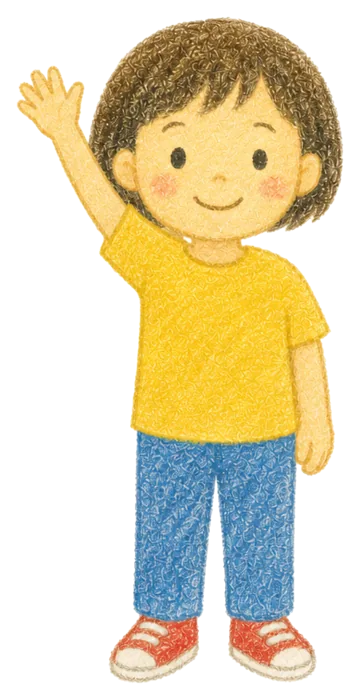
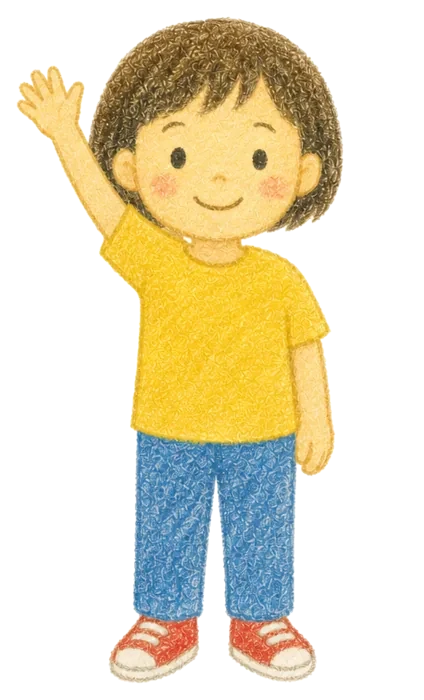
S-04 대기 그림 몸통을 가운데로 · S-09 숨는 물건을 대본 글로 고름
- hero-wave.webp: 든 팔까지 넣은 네모가 아니라 다리 가운데가 정가운데
- 숨을 것: 상자 · 덤불 · 바위 · 통나무 · 배 중 글에 나온 것, 없으면 물건 없이 사라짐 (pt_docs S-09-05)

diff --git a/src/features/scene/plan.ts b/src/features/scene/plan.ts
@@ -6,9 +6,28 @@ import { ACTION_PROP } from "@/features/story/choices";
 import { LOCATIONS, locationFor } from "./locations";
 
 export type PersonId = "friend" | "friend2" | "adult" | "grandma" | "grandpa" | "mom" | "dad" | "teacher" | "baby" | "dog" | "cat";
-export type PropId = PersonId | "box" | "bush" | "sign";
+export type PropId = PersonId | "cover" | "sign";
 /** 사람 · 동물 (옆에 서는 것). 숨을 것 · 표지판은 아니다 */
-export const isPerson = (id: PropId) => id !== "box" && id !== "bush" && id !== "sign";
+export const isPerson = (id: PropId) => id !== "cover" && id !== "sign";
+
+/** 「숨었어요」에서 주인공 앞을 가리는 물건 — 대본 글에 나온 숨는 곳으로 고른다 (11/3 사용자 「우주에서 박스에 숨는데 대본은 잠자리 주머니」).
+ *  [낱말, 그림(public/scenes/ 기준), 화면 높이 대비 키]. 글에서 먼저 나온 것. 맞는 그림이 없으면(담요 · 잠자리 주머니 · 틈 …)
+ *  물건 없이 사라지기만 한다 — pt_docs 05 S-09-05 「배경만 남긴다」 */
+const COVERS: [RegExp, string, number][] = [
+  [/상자|박스|포대|궤짝/, "props/box.webp", 0.36],
+  [/덤불|수풀|풀숲|나무(?= ?(?:뒤|뿌리|밑|아래|사이|옆))|화분|잎/, "props/bush.webp", 0.38],
+  [/바위|돌멩이|돌 /, "cave-entrance/rocks.webp", 0.3],
+  [/통나무/, "forest-trail/log.webp", 0.22],
+  [/고깃배|보트|배 (?:뒤|안|밑|옆)/, "sea-pier/boat.webp", 0.26],
+];
+export function coverFor(text: string): { src: string; h: number } | null {
+  let best: { src: string; h: number } | null = null, at = Infinity;
+  for (const [re, src, h] of COVERS) {
+    const m = re.exec(text);
+    if (m && m.index < at) { at = m.index; best = { src, h }; }
+  }
+  return best;
+}
 
 export interface PropPlan {
   id: PropId;
@@ -18,6 +37,9 @@ export interface PropPlan {
   name?: string;
   /** 이 쪽에서 들어오면 어느 쪽에서 걸어오는지. 없으면 처음부터 서 있다 */
   enter?: "left" | "right";
+  /** 숨을 것(cover)의 그림 · 키 */
+  src?: string;
+  h?: number;
 }
 
 export interface HeroPlan {
@@ -91,6 +113,8 @@ export function planPages(pages: BookPage[], picks: Picks, sheet: Record<string,
   const out: PagePlan[] = [];
   let x = SLOT, loc: string | undefined, night = false;
   const stageIdx = (s: string) => ["place", "problem", "action", "result"].indexOf(s);
+  // 숨는 곳은 행동 쪽들의 글에서 한 번 정해 쪽이 바뀌어도 같은 물건
+  const cover = coverFor(pages.filter((p) => p.stage === "action").map((p) => p.text).join(" "));
   for (const p of pages) {
     loc = locationFor(place, p, loc);
     const st = stageIdx(p.stage);
@@ -110,7 +134,7 @@ export function planPages(pages: BookPage[], picks: Picks, sheet: Record<string,
       if (actionProp === "adult") keep("adult", "left");
       if (actionProp === "friend" && !props.some((q) => q.id === "friend")) keep("friend", "right");
       if (actionProp === "sign") props.push({ id: "sign" });
-      if (actionProp === "cover") props.push({ id: isIndoor(loc) ? "box" : "bush" });
+      if (actionProp === "cover" && cover) props.push({ id: "cover", ...cover });
     }
     if (p.stage === "result" && picks.result) {
       if (FRIEND_RESULTS.has(picks.result)) keep("friend", "right");

diff --git a/src/features/scene/SceneStage.tsx b/src/features/scene/SceneStage.tsx
@@ -209,7 +209,7 @@ export default function SceneStage({ plan, prevEnv, sprite, still, mode }: Props
     return { x: bx, back: true };
   };
   const behind = plan.props.filter((p) => isPerson(p.id) || p.id === "sign");
-  const front = plan.props.filter((p) => p.id === "box" || p.id === "bush");
+  const front = plan.props.filter((p) => p.id === "cover" && p.src);
 
   return (
     <div className={`scene ${night ? "night" : ""}`} aria-hidden ref={root}>
@@ -253,10 +253,10 @@ export default function SceneStage({ plan, prevEnv, sprite, still, mode }: Props
                  src={still} alt="" style={{ ...heroStyle, transition: heroTransition, opacity: heroGone ? 0 : 1 }}
                  onLoad={(e) => setStillAr(e.currentTarget.naturalWidth / Math.max(1, e.currentTarget.naturalHeight))} />
           : null}
-      {front.map((p) => {
-        const s = prop(p.id);
-        return s ? <img key={p.id} className="scene-obj scene-cover" src={base + s.src} alt="" style={spotStyle(s)} /> : null;
-      })}
+      {front.map((p) => (
+        <img key={p.src} className="scene-obj scene-cover" src={`${sceneBase(p.src!.split("/")[0])}${p.src!.split("/")[1]}`} alt=""
+             style={spotStyle({ src: p.src!, x: 0.52, foot: 0.96, h: p.h ?? 0.36 })} />
+      ))}
     </div>
   );
 }

diff --git a/docs/worklog.md b/docs/worklog.md
@@ -18,6 +18,14 @@
 
 ---
 
+### S-04 대기 그림 가운데 · S-09 숨는 물건을 대본 글로 (2026-11-03)
+
+**왜**: 사용자 「친구를 만들고 있어요 나올 때 캐릭터 위치가 정중앙이 아니야」 · 「우주에서 박스에 숨는데 대본 내용은 잠자리 주머니야」.
+**바꾼 것**:
+- `public/illust/hero-wave.webp` — 들어 올린 팔까지 넣은 네모의 가운데라 몸통이 9% 오른쪽이었다. 오른쪽에 투명 여백 64px 를 더해 다리 가운데가 정가운데(S-01 · S-04 · S-14 같은 그림)
+- `features/scene/plan.ts` `coverFor` — 숨을 것을 실내 상자 / 바깥 덤불로 고정하던 것을 행동 쪽 글의 낱말로: 상자 · 포대 → 상자, 덤불 · 나무 뒤 · 화분 · 잎 → 덤불, 바위 → 바위, 통나무 → 통나무, 고깃배 → 배. 맞는 그림이 없으면(담요 · 잠자리 주머니 · 틈 · 식탁 밑 …) 물건 없이 사라지기만(pt_docs 05 S-09-05 「배경만 남긴다」). 카드 「숨었어요」 이야기 64편: 물건 30 · 없이 34
+**남은 것**: 담요 · 식탁 · 기둥 · 모래 언덕 같은 숨을 것 그림을 더 그릴지 (그리면 1장 약 $0.05)
+
 ### S-09 움직일 때 잘림 · 숨은 뒤 다시 나타남 · 쪽 넘김 직후 튐 (2026-11-03)
 
 **왜**: 사용자 「멈춰있을 때는 안 깨지는데 움직일 때 잘려나가」 · 「박스 규모 째로 속도에 따라 움직이면 되는거 아닌가」 · 「숨기 했으면 다시 나타나면 안되는데」.
